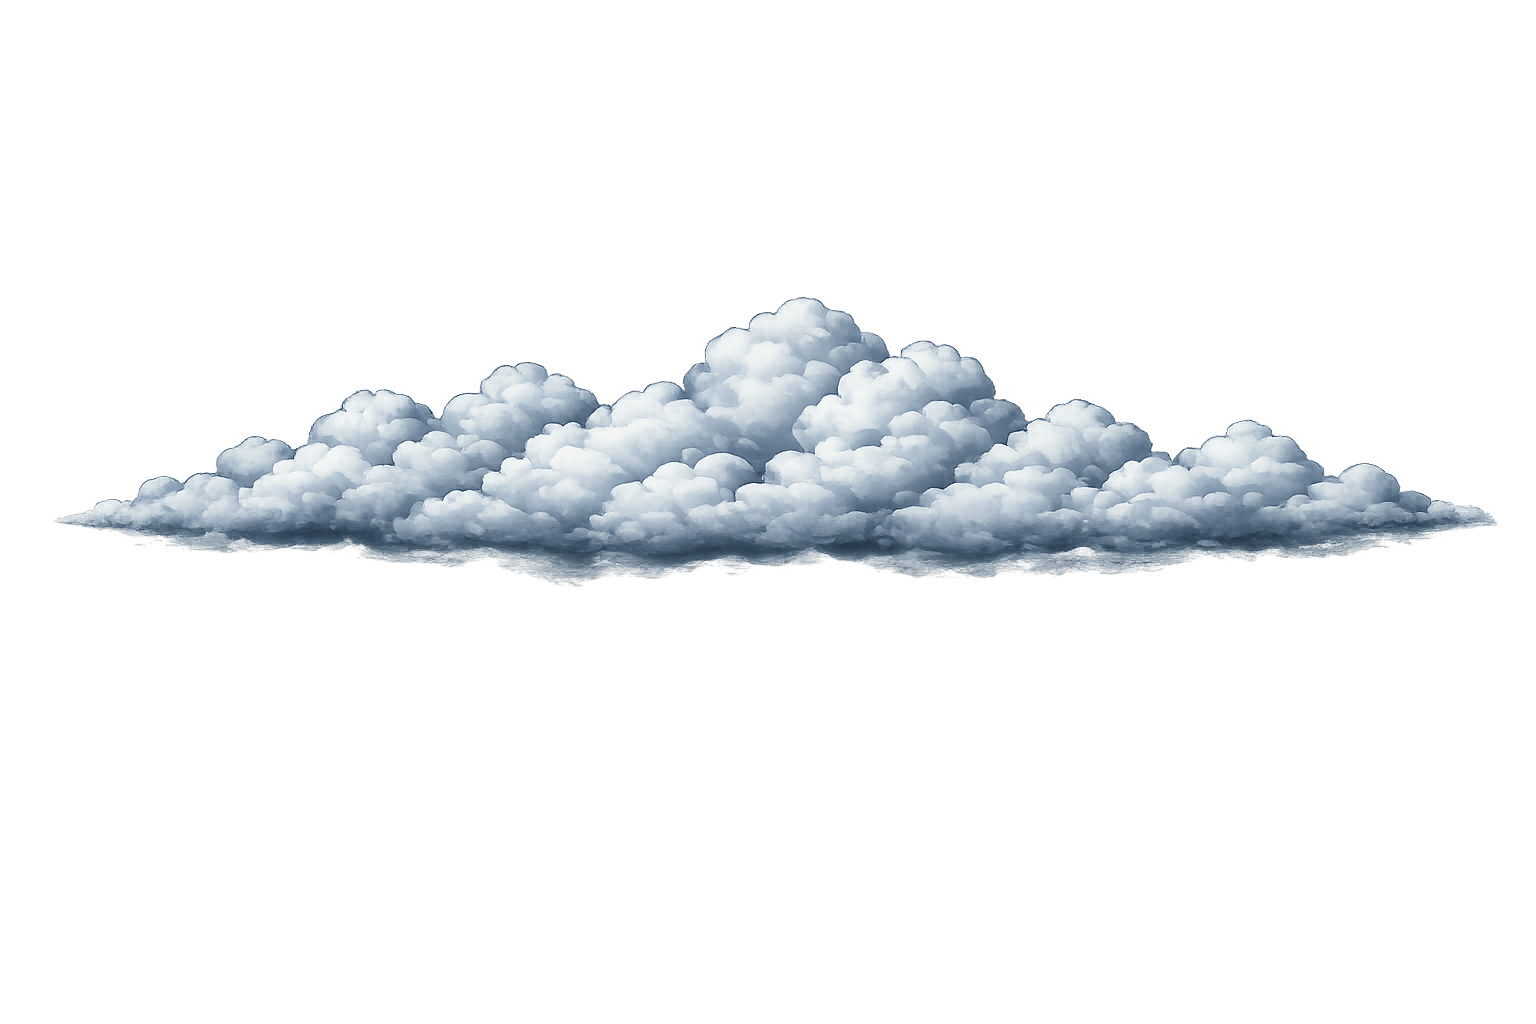
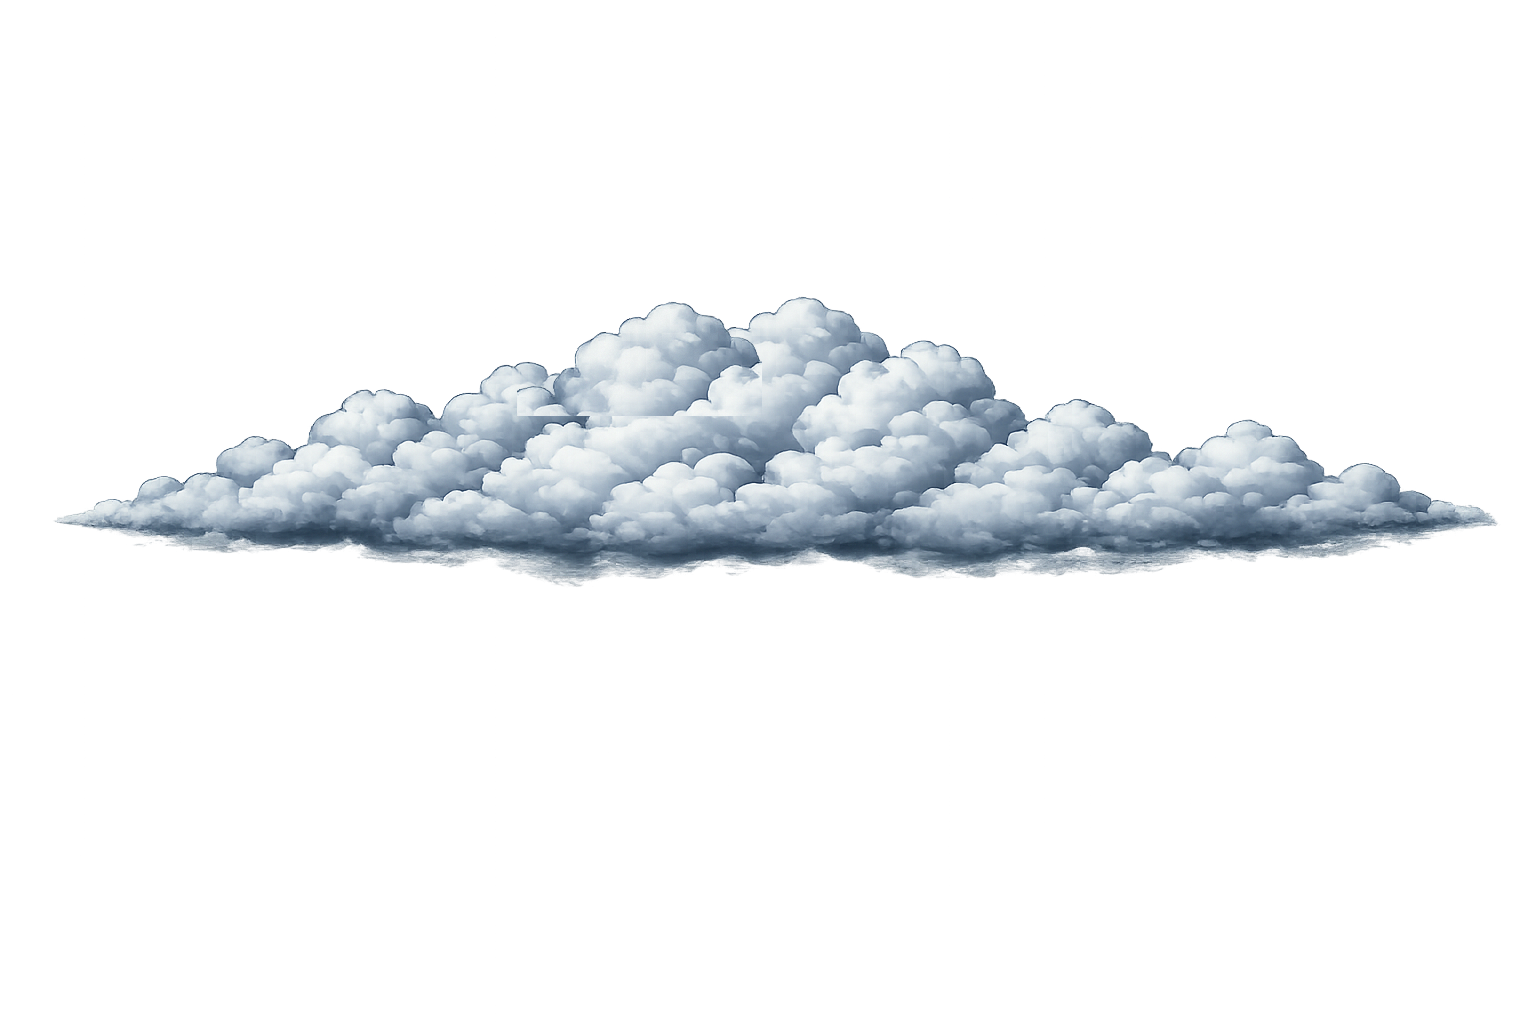
Add files via upload

Changed region(s): [[0.3125, 0.2812, 0.5, 0.4062]]

diff --git a/game.js b/game.js
@@ -751,7 +751,7 @@ let stunEndTime = 0; // 스턴 종료 시간
 // 보너스 점수 레벨 그룹 (표시 이름 기준)
 const BONUS_G1_LEVELS = ["6", "7", "14", "15", "23"];
 const BONUS_G2_LEVELS = ["8", "9", "10", "16", "17", "18", "19", "20", "24", "25"];
-const BONUS_G4_LEVELS = ["26"];
+const BONUS_G3_LEVELS = ["26"];
 
 function getTotalItemsCount() {
     let total = 0;
@@ -1608,7 +1608,7 @@ function updateStoreUI(isInventoryMode = false) {
             const itemDiv = document.createElement('div');
             itemDiv.className = `store-mini-item item-${key}`;
             if (isInventoryMode) {
-                const allItemLevels = [...BONUS_G1_LEVELS, ...BONUS_G2_LEVELS, ...BONUS_G4_LEVELS];
+                const allItemLevels = [...BONUS_G1_LEVELS, ...BONUS_G2_LEVELS, ...BONUS_G3_LEVELS];
                 let isItemDisabled = (count === 0);
 
                 // 아이템 미션이 없는 레벨이라면 비활성화
@@ -1622,8 +1622,8 @@ function updateStoreUI(isInventoryMode = false) {
                     if (droppedItems.length >= 2) {
                         isItemDisabled = true;
                     }
-                } else if (BONUS_G4_LEVELS.includes(displayName)) {
-                    if (droppedItems.length >= 4) {
+                } else if (BONUS_G3_LEVELS.includes(displayName)) {
+                    if (droppedItems.length >= 3) {
                         isItemDisabled = true;
                     }
                 }
@@ -1705,8 +1705,8 @@ function updateStoreUI(isInventoryMode = false) {
                         if (droppedItems.length >= 1) return;
                     } else if (BONUS_G2_LEVELS.includes(displayName)) {
                         if (droppedItems.length >= 2) return;
-                    } else if (BONUS_G4_LEVELS.includes(displayName)) {
-                        if (droppedItems.length >= 4) return;
+                    } else if (BONUS_G3_LEVELS.includes(displayName)) {
+                        if (droppedItems.length >= 3) return;
                     } else {
                         // 아이템 미션이 없는 레벨
                         return;
@@ -1967,8 +1967,8 @@ function update(timestamp) {
 function updateTargetLine() {
     // 모든 레벨에서 착륙 패드가 가로로 움직이지 않도록 고정 (0~30레벨 공통)
     if (currentLevel >= 0 && currentLevel <= 31) {
-        if (currentLevel === 25 || currentLevel === 27) {
-            // 레벨 21, 23: 좌측으로 이동 (속도 0.2)
+        if (currentLevel === 25 || currentLevel === 27 || currentLevel === 31) {
+            // 레벨 21, 23, 26: 좌측으로 이동 (속도 0.2)
             targetLineX -= 0.2;
             if (targetLineX < 0) targetLineX = 100;
         } else if (currentLevel === 26) {
@@ -2557,12 +2557,11 @@ function winGame() {
         } else {
             itemBonus = 0;
         }
-    } else if (BONUS_G4_LEVELS.includes(currentDisplayName)) {
-        // Group 4 (Level 26): 0개 800점, 1개 600점, 2개 400점, 3개 200점, 4개 이상 0점
-        if (actualItemsDecreased === 0) itemBonus = 800;
-        else if (actualItemsDecreased === 1) itemBonus = 600;
-        else if (actualItemsDecreased === 2) itemBonus = 400;
-        else if (actualItemsDecreased === 3) itemBonus = 200;
+    } else if (BONUS_G3_LEVELS.includes(currentDisplayName)) {
+        // Group 3 (Level 26): 0개 600점, 1개 400점, 2개 200점, 3개 이상 0점
+        if (actualItemsDecreased === 0) itemBonus = 600;
+        else if (actualItemsDecreased === 1) itemBonus = 400;
+        else if (actualItemsDecreased === 2) itemBonus = 200;
         else itemBonus = 0;
     }
 
@@ -3084,8 +3083,8 @@ function resetGame() {
         } else if (BONUS_G2_LEVELS.includes(displayName)) {
             levelHintEl.innerHTML = `Use 2 items or less`;
             levelHintEl.classList.remove('hidden');
-        } else if (BONUS_G4_LEVELS.includes(displayName)) {
-            levelHintEl.innerHTML = `Use 4 items or less`;
+        } else if (BONUS_G3_LEVELS.includes(displayName)) {
+            levelHintEl.innerHTML = `Use 3 items or less`;
             levelHintEl.classList.remove('hidden');
         } else {
             levelHintEl.classList.add('hidden');
@@ -3108,7 +3107,7 @@ function resetGame() {
 function addLevel26Cloud() {
     removeLevel26Cloud();
     
-    // 하단 구름 이미지 생성 (1구역 유지, 3 & 6구역 제거)
+    // 1. 하단 구름 이미지 생성 (시각적 장식)
     const imageZones = ['zone-1'];
     imageZones.forEach(zoneId => {
         const targetZone = document.getElementById(zoneId);
@@ -3121,7 +3120,7 @@ function addLevel26Cloud() {
             cloud.style.bottom = 'calc(20% - 20px)';
             cloud.style.width = '384px';
             cloud.style.height = 'auto';
-            cloud.style.transform = 'translateX(-50%)';
+            cloud.style.transform = 'translateX(-50%) scaleY(1.1)';
             cloud.style.zIndex = '15';
             cloud.style.opacity = '0.4';
             cloud.style.pointerEvents = 'none';
@@ -3129,8 +3128,75 @@ function addLevel26Cloud() {
         }
     });
 
-    // 노란색 구역(가이드 및 물리 판정 영역) 생성 부분은 사용자의 요청에 의해 시각화 제외
-    // (물리 판정 로직인 isInsideLevel26Cloud은 그대로 유지됨)
+    // 2. 구름 물리 판정 영역을 점선으로 시각화 (SVG 사용)
+    const skyWidth = gameContainer.clientWidth;
+    const skyHeight = gameContainer.clientHeight * 0.9195;
+    const zoneHeight = 100 / 7;
+    const halfWidthPct = (384 / skyWidth) * 100 / 2;
+    const pixel35Pct = (35 / skyHeight) * 100;
+    
+    // isInsideLevel26Cloud의 로직을 그대로 재현 (z=1, 2구역)
+    const z = 1;
+    const baseCloudBottom = z * zoneHeight - 2 + pixel35Pct;
+    const baseCloudTop = (z + 1) * zoneHeight + 2;
+    
+    const height = baseCloudTop - baseCloudBottom;
+    const centerY = baseCloudBottom + height / 2;
+    const expandedHalfHeight = (height * 1.1) / 2;
+    
+    const cloudBottomY = centerY - expandedHalfHeight;
+    const cloudCenterTopY = centerY + expandedHalfHeight;
+    
+    // 기울기 팩터
+    const slantFactorRight = Math.tan(20 * Math.PI / 180);
+    const slantFactorLeft = Math.tan(15 * Math.PI / 180);
+    
+    // 경계에서의 높이 보정
+    const dxPixels = (halfWidthPct / 100) * skyWidth;
+    const dyRightPct = (dxPixels * slantFactorRight / skyHeight) * 100;
+    const dyLeftPct = (dxPixels * slantFactorLeft / skyHeight) * 100;
+    
+    const cloudRightTopY = cloudCenterTopY - dyRightPct;
+    const cloudLeftTopY = cloudCenterTopY - dyLeftPct;
+
+    const L = 50 - halfWidthPct;
+    const R = 50 + halfWidthPct;
+    const C = 50;
+
+    // SVG 생성 및 설정
+    const svgNS = "http://www.w3.org/2000/svg";
+    const svg = document.createElementNS(svgNS, "svg");
+    svg.setAttribute("viewBox", "0 0 100 100");
+    svg.setAttribute("preserveAspectRatio", "none");
+    svg.className = "level26-cloud-guide-svg";
+    svg.style.position = "absolute";
+    svg.style.top = "0";
+    svg.style.left = "0";
+    svg.style.width = "100%";
+    svg.style.height = "100%";
+    svg.style.zIndex = "14";
+    svg.style.pointerEvents = "none";
+
+    const polygon = document.createElementNS(svgNS, "polygon");
+    // SVG 좌표는 상단 기준이므로 (100 - Y)
+    const points = [
+        `${L},${100 - cloudBottomY}`,
+        `${R},${100 - cloudBottomY}`,
+        `${R},${100 - cloudRightTopY}`,
+        `${C},${100 - cloudCenterTopY}`,
+        `${L},${100 - cloudLeftTopY}`
+    ].join(" ");
+    
+    polygon.setAttribute("points", points);
+    polygon.setAttribute("fill", "rgba(255, 255, 255, 0.05)");
+    polygon.setAttribute("stroke", "white");
+    polygon.setAttribute("stroke-width", "0.3");
+    polygon.setAttribute("stroke-dasharray", "1,1");
+    polygon.setAttribute("opacity", "0.7");
+    
+    svg.appendChild(polygon);
+    const skyBg = document.getElementById('sky-background');
+    if (skyBg) skyBg.appendChild(svg);
 }
 
 
@@ -3176,7 +3242,12 @@ function isInsideLevel26Cloud(x, y) {
             currentTop -= dyGameUnits;
         }
 
-        if (y >= zoneBottom - 2 + pixel35InGameUnits && y <= currentTop) {
+        const cloudBottom = zoneBottom - 2 + pixel35InGameUnits;
+        const cloudHeight = currentTop - cloudBottom;
+        const centerY = cloudBottom + cloudHeight / 2;
+        const expandedHalfHeight = (cloudHeight * 1.1) / 2;
+
+        if (y >= centerY - expandedHalfHeight && y <= centerY + expandedHalfHeight) {
             return true;
         }
     }
